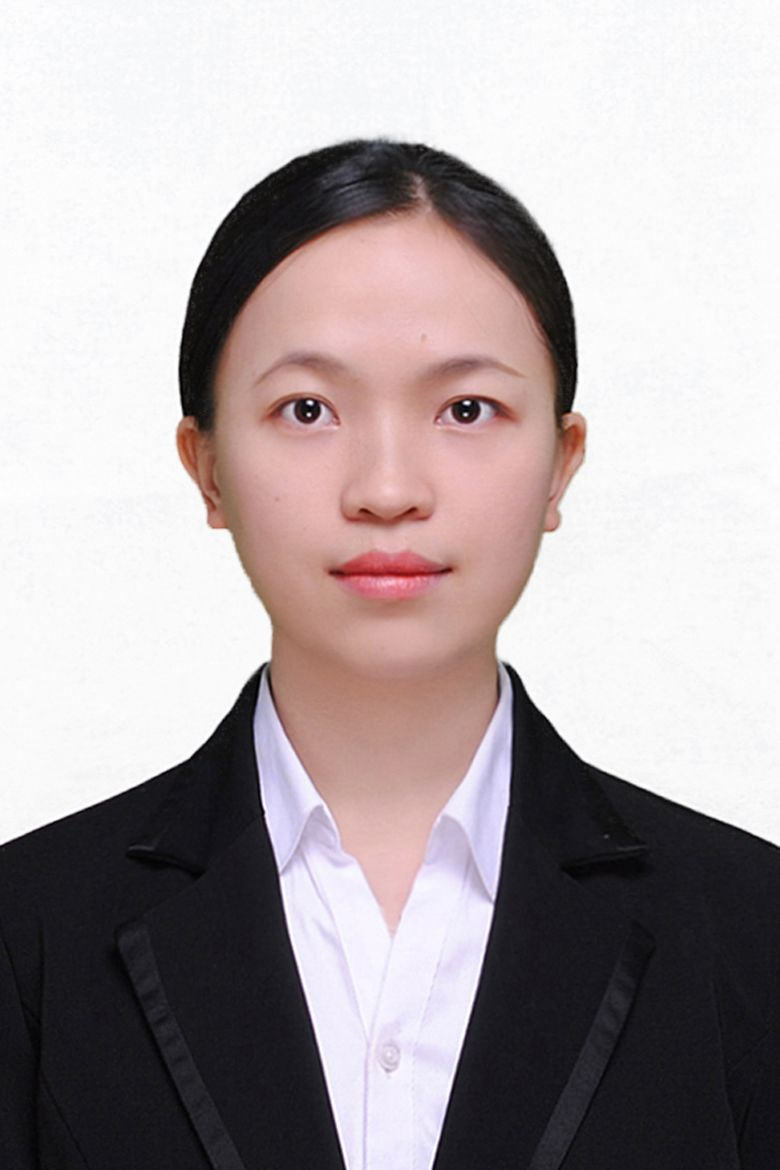
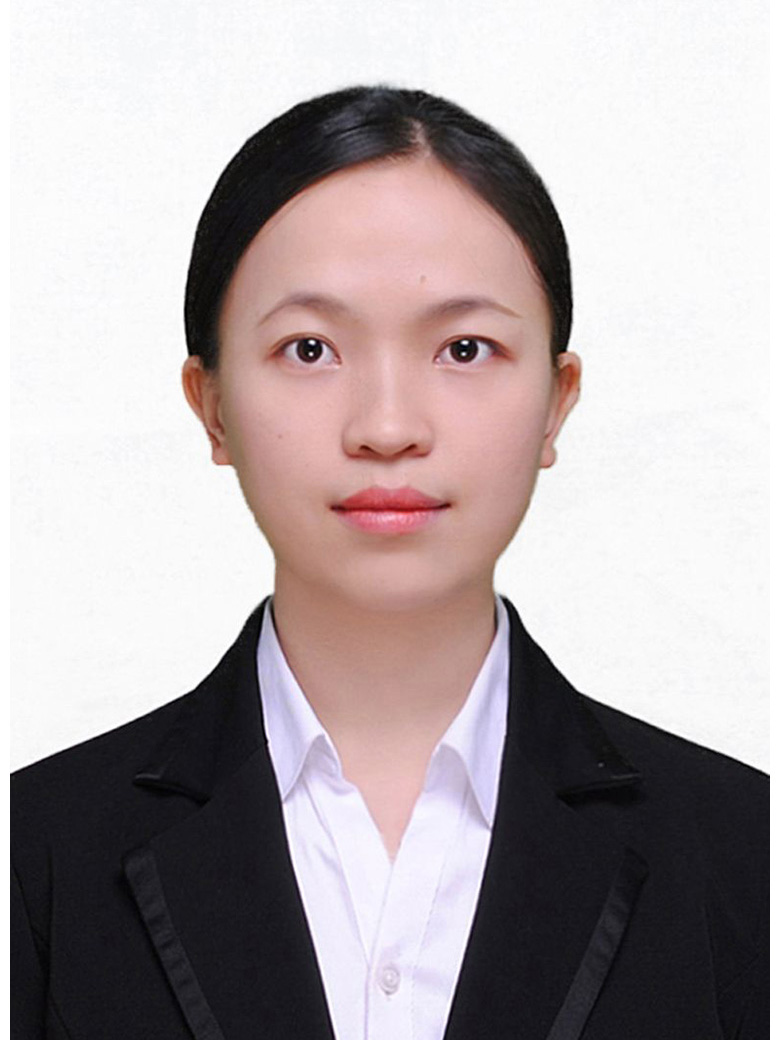
解决了不同照片不等宽的问题，添加了部分成员

diff --git a/team.html b/team.html
@@ -89,7 +89,7 @@
           <div class="col-lg-4 col-md-6 d-flex align-items-stretch">
             <div class="member">
               <div class="member-img">
-                <img src="assets/img/team/wsdong_s.jpg" class="img-fluid" alt="">
+                <img src="assets/img/team/wsdong.jpg" class="img-fluid" alt="">
 <!--                <div class="social">-->
 <!--                  <a href=""><i class="bi bi-twitter"></i></a>-->
 <!--                  <a href=""><i class="bi bi-facebook"></i></a>-->
@@ -98,9 +98,14 @@
 <!--                </div>-->
               </div>
               <div class="member-info">
-                <h4>董伟生</h4>
+                <h4>董伟生 Weisheng Dong</h4>
                 <span>Professor</span>
-                <p>人工智能学院教授，博导，副院长，国家级领军人才。主要从事图像视频处理、深度学习，模式识别与计算机视觉方面的研究工作。在权威国际期刊和会议上发表论文100余篇，其中在TPAMI、IJCV、IEEE-TIP、CVPR、ICCV、NIPS等顶级期刊和会议上发表论文50多篇。论文被引用8000余次，2篇论文单篇引用超过1300余次，8篇论文入选 ESI 高被引论文。</p>
+                <p>Doctoral Supervisor at the School of Artificial Intelligence</p>
+                <p>Deputy Dean</p>
+                <p>National Leading Talent</p>
+                <p>Research Interests: Image and Video Processing, Deep Learning, Pattern Recognition and Computer Vision</p>
+                <p>Publications: 50+ papers in top journals and conferences, including TPAMI, IJCV, IEEE-TIP, CVPR, ICCV, NIPS, etc.</p>
+                <!-- <p>人工智能学院教授，博导，副院长，国家级领军人才。主要从事图像视频处理、深度学习，模式识别与计算机视觉方面的研究工作。在权威国际期刊和会议上发表论文100余篇，其中在TPAMI、IJCV、IEEE-TIP、CVPR、ICCV、NIPS等顶级期刊和会议上发表论文50多篇。论文被引用8000余次，2篇论文单篇引用超过1300余次，8篇论文入选 ESI 高被引论文。</p> -->
               </div>
             </div>
           </div>
@@ -118,7 +123,7 @@
                 </div>
               </div>
               <div class="member-info">
-                <h4>孙璐</h4>
+                <h4>孙璐 Lu Sun</h4>
                 <span>Doctor of Engineering (Ph.D) (Graduated in 2023)</span>
                 <p>Newset Papers: <a href="https://ieeexplore.ieee.org/abstract/document/10050095">Deep Unfolding Network for Efficient Mixed Video Noise Removal</a></p>
                 <p><a href="https://link.springer.com/article/10.1007/s11263-021-01510-7">Deep Maximum a Posterior Estimator for Video Denoising</a></p>
@@ -129,7 +134,7 @@
           <div class="col-lg-4 col-md-6 d-flex align-items-stretch">
             <div class="member">
               <div class="member-img">
-                <img src="assets/img/team/Huangtao.png" class="img-fluid" alt="">
+                <img src="assets/img/team/huangtao.jpg" class="img-fluid" alt="">
                 <div class="social">
                   <a href="https://github.com/TaoHuang95"><i class="bi bi-github"></i></a>
                   <!-- <a href=""><i class="bi bi-facebook"></i></a>
@@ -138,8 +143,8 @@
                 </div>
               </div>
               <div class="member-info">
-                <h4>黄涛</h4>
-                <span>Ph.D student</span>
+                <h4>黄涛 Tao Huang</h4>
+                <span>Doctor of Engineering (Ph.D) (Graduated in 2023)</span>
                 <p>Newset Papers: <a href="https://scholar.google.com.hk/citations?view_op=view_citation&hl=zh-CN&user=hgWAIEUAAAAJ&sortby=pubdate&citation_for_view=hgWAIEUAAAAJ:Tyk-4Ss8FVUC">Deep Gaussian Scale Mixture Prior for Image Reconstruction</a></p>
                 <p><a href="https://scholar.google.com.hk/citations?view_op=view_citation&hl=zh-CN&user=hgWAIEUAAAAJ&sortby=pubdate&citation_for_view=hgWAIEUAAAAJ:UeHWp8X0CEIC">Deep Hyperspectral Image Fusion Network with Iterative Spatio-Spectral Regularization</a></p>
               </div>
@@ -159,11 +164,27 @@
                 </div>
               </div>
               <div class="member-info">
-                <h4>宁倩</h4>
+                <h4>宁倩 Qian Ning</h4>
                 <span>Ph.D student</span>
                 <p>I'm currently working toward the PhD degree in in intelligent information processing at Xidian University, Xi’an, China.</p>
                 <p>Newset Papers: <a >Exploring Correlations in Degraded Spatial Identity Features for Blind Face Restoration</a></p>
                 <p><a href="https://ieeexplore.ieee.org/document/10003244">Searching Efficient Model-Guided Deep Network for Image Denoising</a></p>
+              </div>
+            </div>
+          </div>
+
+          <div class="col-lg-4 col-md-6 d-flex align-items-stretch">
+            <div class="member">
+              <div class="member-img">
+                <img src="assets/img/team/wangchaohua.jpg" class="img-fluid" alt="">
+                <div class="social">
+                  <a href="https://github.com/fengzhuziA"><i class="bi bi-github"></i></a>
+                </div>
+              </div>
+              <div class="member-info">
+                <h4>王超华 Chaohua Wang</h4>
+                <span>Ph.D student</span>
+                <p>Newset Papers: <a href="https://see.xidian.edu.cn/faculty/wsdong/Papers/Journal/Video_deblurring_IJCV2023.pdf">Memory based temporal fusion network for video deblurring</a></p>
               </div>
             </div>
           </div>
@@ -177,7 +198,7 @@
                 </div>
               </div>
               <div class="member-info">
-                <h4>朱宇凡</h4>
+                <h4>朱宇凡 Yufan Zhu</h4>
                 <span>Ph.D student</span>
                 <p>Newset Papers: <a href="https://ojs.aaai.org/index.php/AAAI/article/view/20275">Robust Depth Completion with Uncertainty-Driven Loss Functions</a></p>
                 <p><a href="https://link.springer.com/chapter/10.1007/978-3-031-25072-9_1">Mipi 2022 challenge on rgb+ tof depth completion: Dataset and report</a></p>
@@ -194,7 +215,7 @@
                 </div>
               </div>
               <div class="member-info">
-                <h4>方振轩</h4>
+                <h4>方振轩 Zhenxuan Fang</h4>
                 <span>Ph.D student</span>
                 <p>Newset Papers: <a href="https://openaccess.thecvf.com/content/CVPR2023/html/Fang_Self-Supervised_Non-Uniform_Kernel_Estimation_With_Flow-Based_Motion_Prior_for_Blind_CVPR_2023_paper.html">Self-supervised Non-uniform Kernel Estimation with Flow-based Motion Prior for Blind Image Deblurring</a></p>
                 <p><a href="https://link.springer.com/chapter/10.1007/978-3-031-19797-0_9">Uncertainty Learning in Kernel Estimation for Multi-stage Blind Image Super-Resolution</a></p>
@@ -211,11 +232,34 @@
                 </div>
               </div>
               <div class="member-info">
-                <h4>杨州</h4>
+                <h4>杨州 Zhou Yang</h4>
                 <span>Ph.D student</span>
                 <p>Newset Papers: <a href="https://openaccess.thecvf.com/content/CVPR2023/html/Yang_Vector_Quantization_With_Self-Attention_for_Quality-Independent_Representation_Learning_CVPR_2023_paper.html">Vector Quantization With Self-Attention for Quality-Independent Representation Learning </a></p>
                 <p><a href="https://link.springer.com/chapter/10.1007/978-3-031-20053-3_32">Self-feature Distillation with Uncertainty Modeling for Degraded Image Recognition</a></p>
 
+              </div>
+            </div>
+          </div>
+
+          <div class="col-lg-4 col-md-6 d-flex align-items-stretch">
+            <div class="member">
+              <div class="member-img">
+                <img src="assets/img/team/liuyunlong.jpg" class="img-fluid" alt="">
+                <div class="social">
+                  <a href="https://github.com/LiuYunlong99"><i class="bi bi-github"></i></a>
+                </div>
+                <!-- <div class="social">
+                  <a href=""><i class="bi bi-twitter"></i></a>
+                  <a href=""><i class="bi bi-facebook"></i></a>
+                  <a href=""><i class="bi bi-instagram"></i></a>
+                  <a href=""><i class="bi bi-linkedin"></i></a>
+                </div> -->
+              </div>
+              <div class="member-info">
+                <h4>刘云龙 Yunlong Liu</h4>
+                <span>Ph.D student</span>
+                
+                <p>Newset Papers: <a href="https://openaccess.thecvf.com/content/ICCV2023/papers/Liu_Low-Light_Image_Enhancement_with_Multi-Stage_Residue_Quantization_and_Brightness-Aware_Attention_ICCV_2023_paper.pdf">Low-Light Image Enhancement with Multi-stage Residue Quantization and Brightness-aware Attention </a></p>
               </div>
             </div>
           </div>
@@ -232,10 +276,68 @@
                 </div> -->
               </div>
               <div class="member-info">
-                <h4>徐俊伟</h4>
+                <h4>徐俊伟 Junwei Xu</h4>
                 <span>Ph.D student</span>
                 <p>团宠</p>
                 <p>Newset Papers: <a href="https://pubmed.ncbi.nlm.nih.gov/37527319/">Spatially Varying Prior Learning for Blind Hyperspectral Image Fusion </a></p>
+              </div>
+            </div>
+          </div>
+
+          
+
+          <div class="col-lg-4 col-md-6 d-flex align-items-stretch">
+            <div class="member">
+              <div class="member-img">
+                <img src="assets/img/team/sunyuijia.jpg" class="img-fluid" alt="">
+                <div class="social">
+                  <!-- <a href="https://github.com/LiuYunlong99"><i class="bi bi-github"></i></a> -->
+                </div>
+                <!-- <div class="social">
+                  <a href=""><i class="bi bi-twitter"></i></a>
+                  <a href=""><i class="bi bi-facebook"></i></a>
+                  <a href=""><i class="bi bi-instagram"></i></a>
+                  <a href=""><i class="bi bi-linkedin"></i></a>
+                </div> -->
+              </div>
+              <div class="member-info">
+                <h4>孙雨佳 Yujia Sun</h4>
+                <span>Ph.D student</span>
+                
+                <!-- <p>Newset Papers: <a href="https://openaccess.thecvf.com/content/ICCV2023/papers/Liu_Low-Light_Image_Enhancement_with_Multi-Stage_Residue_Quantization_and_Brightness-Aware_Attention_ICCV_2023_paper.pdf">Low-Light Image Enhancement with Multi-stage Residue Quantization and Brightness-aware Attention </a></p> -->
+              </div>
+            </div>
+          </div>
+
+
+          <div class="col-lg-4 col-md-6 d-flex align-items-stretch">
+            <div class="member">
+              <div class="member-img">
+                <img src="assets/img/team/liyiqi.jpg" class="img-fluid" alt="">
+                <div class="social">
+                  <a href="https://github.com/fengzhuziA"><i class="bi bi-github"></i></a>
+                </div>
+              </div>
+              <div class="member-info">
+                <h4>李艺琦 Yiqi Li</h4>
+                <span>Ph.D student</span>
+                <!-- <p>Newset Papers: <a href="https://see.xidian.edu.cn/faculty/wsdong/Papers/Journal/Video_deblurring_IJCV2023.pdf">Memory based temporal fusion network for video deblurring</a></p> -->
+              </div>
+            </div>
+          </div>
+
+          <div class="col-lg-4 col-md-6 d-flex align-items-stretch">
+            <div class="member">
+              <div class="member-img">
+                <img src="assets/img/team/liumengzu.jpg" class="img-fluid" alt="">
+                <div class="social">
+                  <a href="https://github.com/fengzhuziA"><i class="bi bi-github"></i></a>
+                </div>
+              </div>
+              <div class="member-info">
+                <h4>刘孟祖 Mengzu Liu</h4>
+                <span>Ph.D student</span>
+                <!-- <p>Newset Papers: <a href="https://see.xidian.edu.cn/faculty/wsdong/Papers/Journal/Video_deblurring_IJCV2023.pdf">Memory based temporal fusion network for video deblurring</a></p> -->
               </div>
             </div>
           </div>
@@ -252,7 +354,7 @@
                          </div>
                 </div>
                 <div class="member-info">
-                    <h4>薛宇辉</h4>
+                    <h4>薛宇辉 Yuhui Xue</h4>
                     <span>Master of Science in Engineering (Graduated in 2023)</span>
                     <p>一位不愿意透露身份的科研尖兵<font color="red" size="10"></font></p>
                 </div>

diff --git a/Readme.md b/Readme.md
@@ -152,7 +152,7 @@ html文件使用`nignx`反向代理，具体步骤见[这篇知乎](https://zhua
 <div class="col-lg-4 col-md-6 d-flex align-items-stretch">
     <div class="member">
         <div class="member-img">
-            <img src="成员照片，示例assets/img/team/wsdong_s.jpg" class="img-fluid" alt="">
+            <img src="成员照片，示例assets/img/team/wsdong.jpg" class="img-fluid" alt="">
             <!-- 下面这些注释先行保留，如果有成员有个人主页，可将其取消注释，并放置相应的链接 -->
     <!--                <div class="social">-->
     <!--                  <a href=""><i class="bi bi-twitter"></i></a>-->

diff --git a/example.md b/example.md
@@ -128,7 +128,7 @@
 <div class="col-lg-4 col-md-6 d-flex align-items-stretch">
     <div class="member">
         <div class="member-img">
-            <img src="成员照片，示例assets/img/team/wsdong_s.jpg" class="img-fluid" alt="">
+            <img src="成员照片，示例assets/img/team/wsdong.jpg" class="img-fluid" alt="">
             <!-- 下面这些注释先行保留，如果有成员有个人主页，可将其取消注释，并放置相应的链接 -->
     <!--                <div class="social">-->
     <!--                  <a href=""><i class="bi bi-twitter"></i></a>-->
